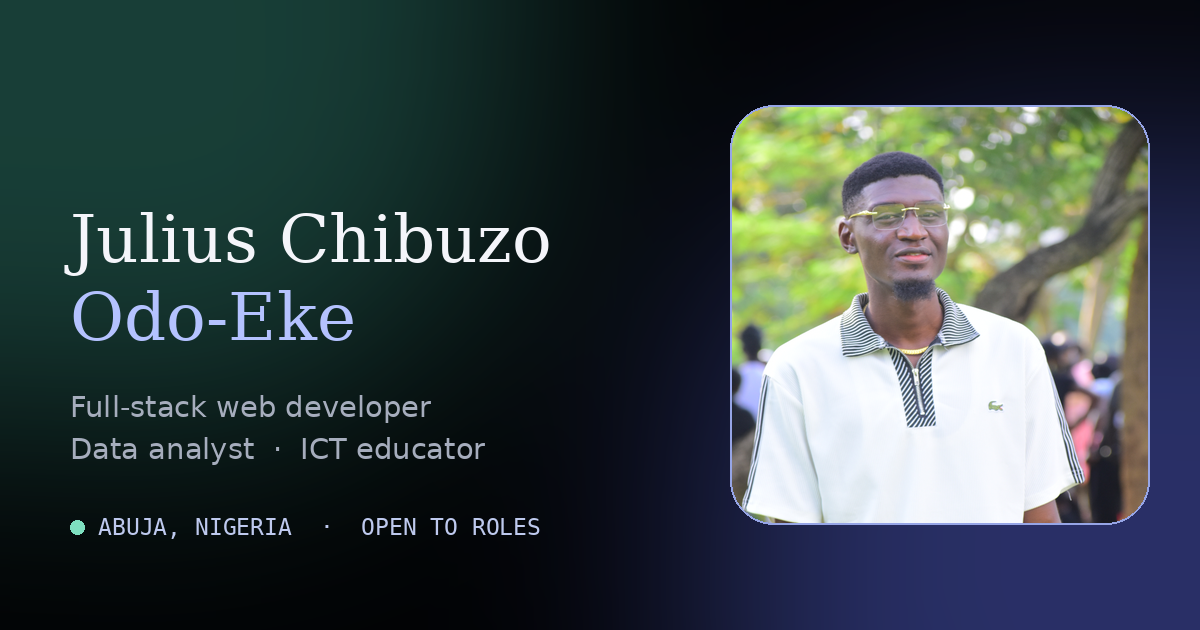
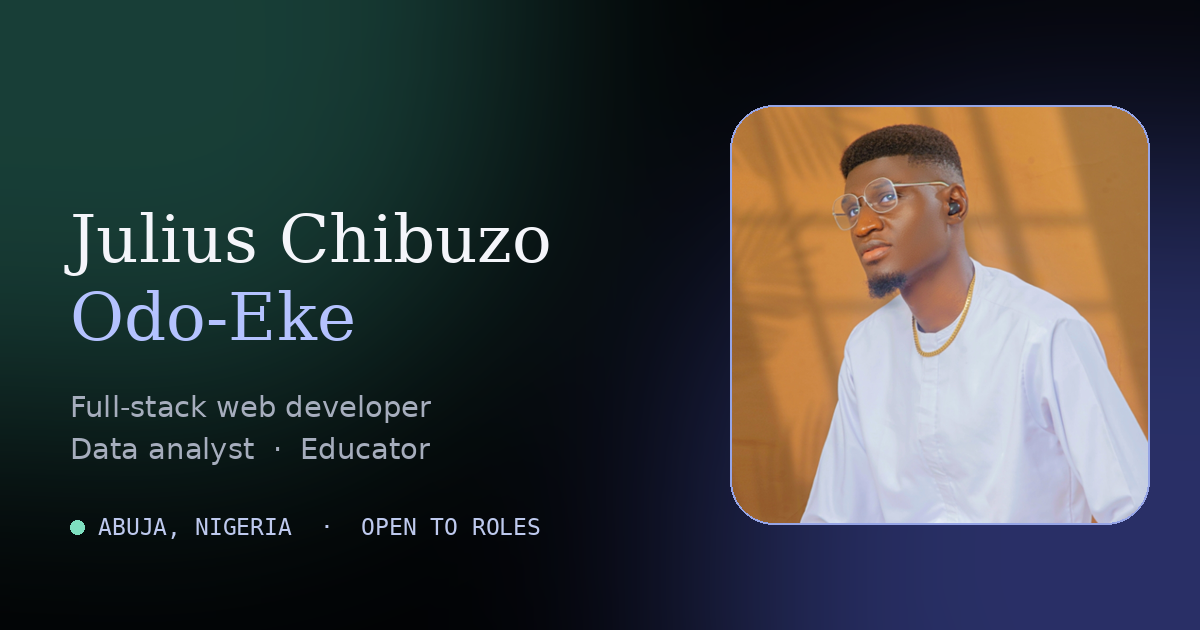
Add files via upload

Changed region(s): [[0.5858, 0.1508, 0.9558, 0.8444], [0.2467, 0.6937, 0.4008, 0.754]]

diff --git a/index.html b/index.html
@@ -6,23 +6,23 @@
   <meta name="theme-color" content="#080b12">
   <meta name="google-site-verification" content="lKw2MJKOAzaLV7G92PlsBbsFZqcVp-Los6WNyoxJ-W8">
   <meta name="author" content="Julius Chibuzo Odo-Eke">
-  <meta name="description" content="Julius Chibuzo Odo-Eke is an Abuja-based full-stack web developer, data analyst, and ICT educator. Explore his projects, experience, and credentials.">
+  <meta name="description" content="Julius Chibuzo Odo-Eke is an Abuja-based full-stack web developer, data analyst, and educator. Explore his projects, experience, and credentials.">
   <meta name="robots" content="index, follow, max-image-preview:large, max-snippet:-1, max-video-preview:-1">
   <link rel="canonical" href="https://odoekejulius.github.io/">
   <meta property="og:type" content="website">
   <meta property="og:locale" content="en_NG">
   <meta property="og:site_name" content="Julius Odo-Eke">
   <meta property="og:title" content="Julius Odo-Eke | Web Developer &amp; Data Analyst in Abuja">
-  <meta property="og:description" content="Explore the work and experience of Julius Chibuzo Odo-Eke, an Abuja-based full-stack web developer, data analyst, and ICT educator.">
+  <meta property="og:description" content="Explore the work and experience of Julius Chibuzo Odo-Eke, an Abuja-based full-stack web developer, data analyst, and educator.">
   <meta property="og:url" content="https://odoekejulius.github.io/">
-  <meta property="og:image" content="https://odoekejulius.github.io/assets/images/og-cover.png">
+  <meta property="og:image" content="https://odoekejulius.github.io/assets/images/og-cover.png?v=13cb2f820b">
   <meta property="og:image:width" content="1200">
   <meta property="og:image:height" content="630">
   <meta property="og:image:alt" content="Portrait of Julius Chibuzo Odo-Eke">
   <meta name="twitter:card" content="summary_large_image">
   <meta name="twitter:title" content="Julius Odo-Eke | Web Developer &amp; Data Analyst in Abuja">
-  <meta name="twitter:description" content="Explore the work and experience of Julius Chibuzo Odo-Eke, an Abuja-based full-stack web developer, data analyst, and ICT educator.">
-  <meta name="twitter:image" content="https://odoekejulius.github.io/assets/images/og-cover.png">
+  <meta name="twitter:description" content="Explore the work and experience of Julius Chibuzo Odo-Eke, an Abuja-based full-stack web developer, data analyst, and educator.">
+  <meta name="twitter:image" content="https://odoekejulius.github.io/assets/images/og-cover.png?v=13cb2f820b">
   <title>Julius Odo-Eke | Web Developer &amp; Data Analyst in Abuja</title>
   <script type="application/ld+json">
     {
@@ -32,8 +32,8 @@
       "name": "Julius Chibuzo Odo-Eke",
       "url": "https://odoekejulius.github.io/",
       "image": "https://odoekejulius.github.io/assets/images/julius-odoeke.jpeg",
-      "jobTitle": ["Full-stack web developer", "Data analyst", "ICT educator"],
-      "description": "Abuja-based full-stack web developer, data analyst, and ICT educator. Explore website projects, analytics work, experience, and credentials.",
+      "jobTitle": ["Full-stack web developer", "Data analyst", "Educator"],
+      "description": "Abuja-based full-stack web developer, data analyst, and educator. Explore website projects, analytics work, experience, and credentials.",
       "email": "odoekejulius@gmail.com",
       "address": {
         "@type": "PostalAddress",
@@ -44,12 +44,12 @@
         "@type": "CollegeOrUniversity",
         "name": "University of Nigeria, Nsukka"
       },
-      "knowsAbout": ["Full-stack web development", "Data analytics", "Data visualization", "ICT education"],
+      "knowsAbout": ["Full-stack web development", "Data analytics", "Data visualization", "Education"],
       "sameAs": ["https://linkedin.com/in/odoekejc"]
     }
   </script>
   <link rel="icon" href="assets/favicon.svg" type="image/svg+xml">
-  <link rel="stylesheet" href="assets/css/style.css?v=35">
+  <link rel="stylesheet" href="assets/css/style.css?v=36">
   <script>
     (() => {
       const root = document.documentElement;
@@ -67,7 +67,7 @@
     })();
   </script>
   <script src="assets/js/vendor/jszip.min.js" defer></script>
-  <script src="assets/js/main.js?v=35" defer></script>
+  <script src="assets/js/main.js?v=36" defer></script>
 </head>
 <body>
   <div class="ambient" aria-hidden="true"></div>
@@ -106,7 +106,7 @@
     <section class="hero section" id="top">
       <div class="container hero-grid">
         <div class="hero-copy">
-          <p class="eyebrow"><span class="eyebrow-dot"></span> Full-stack developer · Data analyst · Educator</p>
+          <p class="eyebrow"><span class="eyebrow-dot" aria-hidden="true"></span><span class="eyebrow-item">Full-stack developer</span><span class="eyebrow-item">Data analyst</span><span class="eyebrow-item">Educator</span></p>
           <h1>Technology, data and teaching that <span class="text-gradient">work in practice.</span></h1>
           <p class="hero-lede">I’m Julius Chibuzo Odo-Eke, a Soil Science graduate and full-stack web developer. I build useful web products, work carefully with data, and make technology easier to understand.</p>
           <div class="hero-actions">
@@ -114,7 +114,7 @@
             <a class="button button-secondary" href="#analytics-projects">Data analytics <span aria-hidden="true">↘</span></a>
             <a class="button button-ghost" href="assets/documents/julius-odoeke-cv.pdf" download>Download CV <span aria-hidden="true">↓</span></a>
           </div>
-          <div class="hero-note"><span class="note-line"></span><span>Web development · Data analysis · ICT education</span></div>
+          <div class="hero-note"><span class="note-line"></span><span>Web development · Data analysis · Education</span></div>
         </div>
         <div class="hero-art">
           <div class="portrait-frame">
@@ -150,7 +150,7 @@
           <div class="about-facts">
             <div class="fact"><strong>Web</strong><span>Thoughtful, responsive websites</span></div>
             <div class="fact"><strong>Data</strong><span>Clear analysis and reporting</span></div>
-            <div class="fact"><strong>ICT</strong><span>Practical support and teaching</span></div>
+            <div class="fact"><strong>Education</strong><span>Practical teaching and support</span></div>
           </div>
         </div>
       </div>
@@ -451,7 +451,7 @@
           <article class="skill-card reveal"><span class="skill-number">01</span><h3>Web development</h3><p>Developing and supporting full-stack sites and web applications for real business needs.</p><div class="tag-list"><span>PHP</span><span>MySQL</span><span>HTML</span><span>CSS</span><span>JavaScript</span><span>Git</span><span>React</span><span>Web hosting</span></div></article>
           <article class="skill-card reveal"><span class="skill-number">02</span><h3>Data &amp; reporting</h3><p>Turning day-to-day records into clearer summaries that can support decisions.</p><div class="tag-list"><span>SQL</span><span>Excel</span><span>Tableau</span><span>Google Sheets</span><span>R</span><span>Data visualisation</span><span>Star-schema modelling</span></div></article>
           <article class="skill-card reveal"><span class="skill-number">03</span><h3>Health information</h3><p>Experience supporting accurate records and reporting in a healthcare setting.</p><div class="tag-list"><span>EMR</span><span>NMRS</span><span>NDR</span><span>RADET</span><span>Microsoft Office</span></div></article>
-          <article class="skill-card reveal"><span class="skill-number">04</span><h3>Teaching &amp; collaboration</h3><p>Explaining technical ideas clearly, supporting learners, and working with clients.</p><div class="tag-list"><span>ICT education</span><span>Communication</span><span>Problem solving</span><span>Training</span><span>Digital marketing</span></div></article>
+          <article class="skill-card reveal"><span class="skill-number">04</span><h3>Teaching &amp; collaboration</h3><p>Explaining technical ideas clearly, supporting learners, and working with clients.</p><div class="tag-list"><span>Education</span><span>Communication</span><span>Problem solving</span><span>Training</span><span>Digital marketing</span></div></article>
         </div>
       </div>
     </section>
@@ -616,7 +616,7 @@
         <div class="contact-copy">
           <p class="eyebrow">Have a project in mind?</p>
           <h2>Let’s make something <span class="text-gradient">useful.</span></h2>
-          <p>For web development, data work, or ICT opportunities, reach out directly. I’d be glad to hear what you’re working on.</p>
+          <p>For web development, data work, or education opportunities, reach out directly. I’d be glad to hear what you’re working on.</p>
         </div>
         <div class="contact-actions">
           <a class="button button-primary" href="mailto:odoekejulius@gmail.com?subject=Let%27s%20work%20together">Email Julius <span aria-hidden="true">↗</span></a>
@@ -655,7 +655,7 @@
               <select name="topic" required>
                 <option value="Website development">Website development</option>
                 <option value="Data analysis">Data analysis</option>
-                <option value="ICT training">ICT training</option>
+                <option value="Teaching and training">Teaching and training</option>
                 <option value="Job opportunity">Job opportunity</option>
                 <option value="Something else">Something else</option>
               </select>
@@ -686,7 +686,7 @@
       <div class="footer-main">
         <div class="footer-brand">
           <a class="brand" href="#top" aria-label="Julius Odo-Eke, back to top"><span class="brand-mark" aria-hidden="true">J<span>.</span></span><span class="brand-name">Julius Odo-Eke</span></a>
-          <p class="footer-tagline">Full-stack web developer, data analyst and ICT educator, based in Abuja, Nigeria.</p>
+          <p class="footer-tagline">Full-stack web developer, data analyst and educator, based in Abuja, Nigeria.</p>
           <a class="footer-status" href="#contact"><span class="availability-dot" aria-hidden="true"></span>Open to roles &amp; select projects</a>
         </div>
         <div class="footer-column">

diff --git a/terms.html b/terms.html
@@ -5,12 +5,12 @@
   <meta name="viewport" content="width=device-width, initial-scale=1">
   <meta name="theme-color" content="#080b12">
   <meta name="theme-color" content="#080b12">
-  <meta name="description" content="Plain-language terms for exploring Julius Odo-Eke’s portfolio and asking about web development, data analysis, and ICT services.">
+  <meta name="description" content="Plain-language terms for exploring Julius Odo-Eke’s portfolio and asking about web development, data analysis, and education services.">
   <meta name="robots" content="index, follow">
   <link rel="canonical" href="https://odoekejulius.github.io/terms.html">
   <title>Terms of Service | Julius Odo-Eke</title>
   <link rel="icon" href="assets/favicon.svg" type="image/svg+xml">
-  <link rel="stylesheet" href="assets/css/style.css?v=35">
+  <link rel="stylesheet" href="assets/css/style.css?v=36">
   <script>
     (() => {
       const root = document.documentElement;
@@ -27,7 +27,7 @@
       }
     })();
   </script>
-  <script src="assets/js/main.js?v=35" defer></script>
+  <script src="assets/js/main.js?v=36" defer></script>
 </head>
 <body>
   <div class="ambient" aria-hidden="true"></div>
@@ -55,7 +55,7 @@
           <p class="eyebrow">A few things worth knowing</p>
           <h1>Terms of <span class="text-gradient">service.</span></h1>
         </div>
-        <p class="terms-intro">These straightforward terms apply when you browse this portfolio or contact me about web development, data analysis, or ICT work. They’re meant to set clear expectations, not to replace the written agreement for a particular project.</p>
+        <p class="terms-intro">These straightforward terms apply when you browse this portfolio or contact me about web development, data analysis, or teaching work. They’re meant to set clear expectations, not to replace the written agreement for a particular project.</p>
 
         <div class="terms-list">
           <section class="terms-item">

diff --git a/assets/css/style.css b/assets/css/style.css
@@ -109,6 +109,16 @@ button { font: inherit; }
   width: 7px; height: 7px; flex: 0 0 auto; border-radius: 50%;
   background: var(--accent); box-shadow: 0 0 12px rgba(var(--rgb-accent), .55);
 }
+.eyebrow-item { white-space: nowrap; }
+.eyebrow-item + .eyebrow-item::before { margin-right: 10px; content: "·"; }
+@media (max-width: 640px) {
+  .hero-copy > .eyebrow { display: block; text-align: center; }
+  .hero-copy > .eyebrow .eyebrow-dot { display: block; margin: 0 auto 12px; }
+  .hero-copy > .eyebrow .eyebrow-item { display: inline-block; }
+  .hero-copy > .eyebrow .eyebrow-dot + .eyebrow-item { display: block; margin-bottom: 4px; }
+  .hero-copy > .eyebrow .eyebrow-dot + .eyebrow-item + .eyebrow-item::before { display: none; }
+  .hero-copy > .eyebrow .eyebrow-item + .eyebrow-item + .eyebrow-item::before { margin-left: 10px; }
+}
 
 /* Frosted navigation */
 /* Header: floating glass capsule, aligned to the page container */

diff --git a/404.html b/404.html
@@ -7,7 +7,7 @@
   <meta name="robots" content="noindex">
   <title>Page not found | Julius Odo-Eke</title>
   <link rel="icon" href="/assets/favicon.svg" type="image/svg+xml">
-  <link rel="stylesheet" href="/assets/css/style.css?v=35">
+  <link rel="stylesheet" href="/assets/css/style.css?v=36">
 </head>
 <body>
   <div class="ambient" aria-hidden="true"></div>

diff --git a/tools/generate_og_image.py b/tools/generate_og_image.py
@@ -1,0 +1,129 @@
+#!/usr/bin/env python3
+"""Build the social preview card (assets/images/og-cover.png) from the current profile photo.
+
+The card is the picture shown when the site link is shared (WhatsApp, LinkedIn, X, Chrome, search).
+It reads the photo path from content/site-settings.json (the "portrait_image" field the admin
+panel edits) and falls back to assets/images/julius-odoeke.jpeg. After drawing the card it adds a
+?v=<fingerprint> to the og:image / twitter:image links in index.html, so link-preview caches fetch
+the new picture instead of showing the old one.
+
+Run locally:   pip install pillow   then   python tools/generate_og_image.py
+On GitHub:     .github/workflows/update-og-image.yml runs this automatically whenever the photo changes.
+"""
+import hashlib
+import json
+import re
+import sys
+from pathlib import Path
+
+from PIL import Image, ImageDraw, ImageFilter, ImageFont, ImageOps
+
+ROOT = Path(__file__).resolve().parent.parent
+SITE_URL = "https://odoekejulius.github.io"
+SETTINGS_FILE = ROOT / "content" / "site-settings.json"
+DEFAULT_PHOTO = "assets/images/julius-odoeke.jpeg"
+OUTPUT = ROOT / "assets" / "images" / "og-cover.png"
+PAGE = ROOT / "index.html"
+
+NAME_LINES = ("Julius Chibuzo", "Odo-Eke")
+ROLE_LINES = ("Full-stack web developer", "Data analyst  \u00b7  Educator")
+LOCATION_LINE = "ABUJA, NIGERIA  \u00b7  OPEN TO ROLES"
+
+WIDTH, HEIGHT = 1200, 630
+BG, TEXT, ACCENT, MUTED, MINT, EYEBROW = (8, 11, 18), (244, 245, 250), (180, 194, 255), (166, 173, 189), (126, 224, 192), (190, 201, 238)
+
+FONT_DIRS = [
+    "/usr/share/fonts/truetype/dejavu/", "/usr/share/fonts/dejavu/", "/Library/Fonts/",
+    "/System/Library/Fonts/Supplemental/", "C:/Windows/Fonts/",
+]
+
+
+def load_font(names, size):
+    for folder in FONT_DIRS:
+        for name in names:
+            path = Path(folder) / name
+            if path.exists():
+                return ImageFont.truetype(str(path), size)
+    try:
+        return ImageFont.load_default(size=size)  # Pillow 10.1+
+    except TypeError:
+        return ImageFont.load_default()
+
+
+def photo_path():
+    relative = DEFAULT_PHOTO
+    try:
+        configured = json.loads(SETTINGS_FILE.read_text(encoding="utf-8")).get("portrait_image", "")
+        if isinstance(configured, str) and configured and not re.match(r"^[a-z]+:", configured):
+            relative = configured.lstrip("/")
+    except (OSError, ValueError):
+        pass
+    path = ROOT / relative
+    if not path.is_file():
+        print(f"Photo '{relative}' not found, using {DEFAULT_PHOTO}", file=sys.stderr)
+        relative, path = DEFAULT_PHOTO, ROOT / DEFAULT_PHOTO
+    return relative, path
+
+
+def square_crop(image, size):
+    """Square crop that keeps the head: centred sideways, biased to the top of tall photos."""
+    width, height = image.size
+    side = min(width, height)
+    left = (width - side) // 2
+    top = round((height - side) * 0.12)
+    return image.crop((left, top, left + side, top + side)).resize((size, size), Image.LANCZOS)
+
+
+def build_card(photo_file):
+    photo = ImageOps.exif_transpose(Image.open(photo_file)).convert("RGB")
+
+    glow = Image.new("RGB", (WIDTH, HEIGHT), (0, 0, 0))
+    glow_draw = ImageDraw.Draw(glow)
+    glow_draw.ellipse((-200, -250, 520, 430), fill=(30, 80, 68))
+    glow_draw.ellipse((700, 150, 1400, 850), fill=(52, 60, 130))
+    card = Image.blend(Image.new("RGB", (WIDTH, HEIGHT), BG), glow.filter(ImageFilter.GaussianBlur(120)), 0.75)
+    draw = ImageDraw.Draw(card)
+
+    serif = load_font(["DejaVuSerif.ttf", "Georgia.ttf", "Times New Roman.ttf"], 66)
+    sans = load_font(["DejaVuSans.ttf", "Arial.ttf"], 29)
+    mono = load_font(["DejaVuSansMono.ttf", "Courier New.ttf"], 23)
+
+    draw.text((70, 200), NAME_LINES[0], font=serif, fill=TEXT)
+    draw.text((70, 278), NAME_LINES[1], font=serif, fill=ACCENT)
+    draw.text((70, 390), ROLE_LINES[0], font=sans, fill=MUTED)
+    draw.text((70, 432), ROLE_LINES[1], font=sans, fill=MUTED)
+    draw.ellipse((70, 520, 84, 534), fill=MINT)
+    draw.text((98, 513), LOCATION_LINE, font=mono, fill=EYEBROW)
+
+    tile = square_crop(photo, 420)
+    mask = Image.new("L", (420, 420), 0)
+    ImageDraw.Draw(mask).rounded_rectangle((0, 0, 419, 419), 44, fill=255)
+    card.paste(tile, (730, 105), mask)
+    draw.rounded_rectangle((730, 105, 1149, 524), 44, outline=(150, 165, 230), width=2)
+    return card
+
+
+def stamp_page(version, photo_relative):
+    """Point the preview-image meta tags (and the structured-data photo) at the new files."""
+    if not PAGE.is_file():
+        return
+    with open(PAGE, encoding="utf-8", newline="") as handle:
+        text = handle.read()
+    text = re.sub(r"(assets/images/og-cover\.png)(\?v=[0-9a-f]+)?", rf"\1?v={version}", text)
+    text = re.sub(r'("image":\s*")' + re.escape(SITE_URL) + r'/[^"]+(")', rf"\g<1>{SITE_URL}/{photo_relative}\g<2>", text)
+    with open(PAGE, "w", encoding="utf-8", newline="") as handle:
+        handle.write(text)
+
+
+def main():
+    photo_relative, photo_file = photo_path()
+    card = build_card(photo_file)
+    OUTPUT.parent.mkdir(parents=True, exist_ok=True)
+    card.save(OUTPUT, optimize=True)
+    version = hashlib.sha1(OUTPUT.read_bytes()).hexdigest()[:10]
+    stamp_page(version, photo_relative)
+    print(f"Preview card built from {photo_relative} -> {OUTPUT.relative_to(ROOT)} (v={version})")
+
+
+if __name__ == "__main__":
+    main()

diff --git a/README.md b/README.md
@@ -69,6 +69,11 @@ Add new website and analytics entries from the admin dashboard instead of editin
 ├── README.md
 ├── 404.html
 ├── .nojekyll
+├── .github/
+│   └── workflows/
+│       └── update-og-image.yml
+├── tools/
+│   └── generate_og_image.py
 ├── admin/
 │   ├── index.html
 │   └── config.yml
@@ -127,4 +132,12 @@ Add new website and analytics entries from the admin dashboard instead of editin
 
 ## Recent design updates
 
-Ambient aurora and dot-grid background, a highlights band with count-up numbers, a Download CV button, Renacido highlights, in-development cards for C.Zara Enterprise and Nethub, larger small text, left-aligned reading blocks, compressed images, a 1200x630 social preview (`assets/images/og-cover.png`), `404.html`, and `.nojekyll`. The site includes a light/dark toggle whose preference is remembered in the browser, an email composer with validation and topic selection, and embedded analytics dashboards. The CMS project package preview uses the vendored JSZip 3.10.1 library under its included MIT license. Bump asset cache versions when referenced files change, and keep `style.css?v=` and `main.js?v=` identical on `index.html`, `terms.html` and `404.html` (currently `35`), so no page loads a stale copy of a shared file. Shared color values live in the stylesheet’s root custom properties so future visual changes can use the palette instead of repeating literals throughout component rules.
+Ambient aurora and dot-grid background, a highlights band with count-up numbers, a Download CV button, Renacido highlights, in-development cards for C.Zara Enterprise and Nethub, larger small text, left-aligned reading blocks, compressed images, a 1200x630 social preview (`assets/images/og-cover.png`), `404.html`, and `.nojekyll`. The site includes a light/dark toggle whose preference is remembered in the browser, an email composer with validation and topic selection, and embedded analytics dashboards. The CMS project package preview uses the vendored JSZip 3.10.1 library under its included MIT license. Bump asset cache versions when referenced files change, and keep `style.css?v=` and `main.js?v=` identical on `index.html`, `terms.html` and `404.html` (currently `36`), so no page loads a stale copy of a shared file. Shared color values live in the stylesheet’s root custom properties so future visual changes can use the palette instead of repeating literals throughout component rules.
+
+## Social preview image (follows your profile photo)
+
+`assets/images/og-cover.png` is the card shown when the site link is shared (WhatsApp, LinkedIn, X, Chrome, search results). It is built from your current profile photo by `tools/generate_og_image.py`, which reads the photo from `content/site-settings.json` (`portrait_image`, the field the admin panel edits) and falls back to `assets/images/julius-odoeke.jpeg`.
+
+The workflow `.github/workflows/update-og-image.yml` runs the script on GitHub whenever the photo changes: replacing `assets/images/julius-odoeke.*`, uploading a new portrait through the admin panel, or running it by hand from the repository's Actions tab ("Update social preview image", then "Run workflow"). It commits the new card and adds a fresh `?v=` fingerprint to the `og:image` and `twitter:image` links in `index.html`, so link-preview caches fetch the new picture. Allow a minute or two after changing the photo; apps that already cached the old preview can take longer, and LinkedIn's Post Inspector or Facebook's Sharing Debugger can refresh them immediately.
+
+To change the wording on the card (name, roles, location line), edit the constants at the top of `tools/generate_og_image.py`. To rebuild it on your own computer: `pip install pillow`, then `python tools/generate_og_image.py`.
